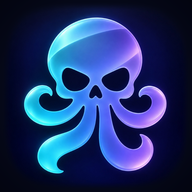
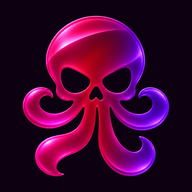
Redesign mafium.com with crimson-violet skull-octopus hero crest, matching palette, and Syne title font

diff --git a/home.css b/home.css
@@ -11,25 +11,25 @@
 }
 
 :root {
-  /* Nocturne Atelier (dark) & Sunlit Gallery (light) palette derived from photography */
-  --paper-light: #f6f2ea;
-  --paper-dark: #0e0d0c;
-  --sheet-light: #fffdf9;
-  --sheet-dark: #161412;
-  --well-light: #eee7db;
-  --well-dark: #100f0e;
-  --ink-light: #1c1814;
-  --ink-dark: #f2ebe1;
-  --muted-light: #695f55;
-  --muted-dark: #a69c90;
-  --rule-light: #e2d9cb;
-  --rule-dark: #2a2622;
-  --rule-strong-light: #c5b8a4;
-  --rule-strong-dark: #433c36;
-  --vermilion-light: #b85d1c;
-  --vermilion-dark: #e5974e;
-  --cobalt-light: #1e6c88;
-  --cobalt-dark: #68b8d6;
+  /* Obsidian Crimson-Violet (dark) & Rose-Quartz Gallery (light) derived from Mafium skull-octopus */
+  --paper-light: #faf4f9;
+  --paper-dark: #0d0011;
+  --sheet-light: #ffffff;
+  --sheet-dark: #16081e;
+  --well-light: #f2e7f4;
+  --well-dark: #100416;
+  --ink-light: #190822;
+  --ink-dark: #f9eff8;
+  --muted-light: #694f78;
+  --muted-dark: #b9a1c4;
+  --rule-light: #e6d4ec;
+  --rule-dark: #2c153b;
+  --rule-strong-light: #ccaed8;
+  --rule-strong-dark: #4b2466;
+  --vermilion-light: #c8005e;
+  --vermilion-dark: #ff2a85;
+  --cobalt-light: #6d1ee6;
+  --cobalt-dark: #9a52ff;
 
   --paper: var(--paper-light);
   --sheet: var(--sheet-light);
@@ -41,6 +41,7 @@
   --vermilion: var(--vermilion-light);
   --cobalt: var(--cobalt-light);
 
+  --brand-display: 'Syne', 'Lexend', -apple-system, BlinkMacSystemFont, sans-serif;
   --display: 'Lexend', -apple-system, BlinkMacSystemFont, 'Segoe UI', system-ui, sans-serif;
   --sans: 'Lexend', -apple-system, BlinkMacSystemFont, 'Segoe UI', system-ui, sans-serif;
 
@@ -50,6 +51,7 @@
   --radius-pill: 999px;
 
   color-scheme: light dark;
+  scrollbar-color: var(--rule-strong) var(--paper);
   view-transition-name: none;
 
   &:has(> head > meta[name="color-scheme"][content="dark"]) {
@@ -123,15 +125,15 @@ body {
   min-block-size: 100svh;
   background-color: var(--paper);
   background-image:
-    radial-gradient(65% 45% at 86% 6%, color-mix(in oklab, var(--cobalt) 9%, transparent), transparent 72%),
-    radial-gradient(55% 40% at 12% 28%, color-mix(in oklab, var(--vermilion) 6%, transparent), transparent 74%);
+    radial-gradient(64% 46% at 14% 6%, color-mix(in oklab, var(--vermilion) 15%, transparent), transparent 72%),
+    radial-gradient(60% 44% at 88% 12%, color-mix(in oklab, var(--cobalt) 16%, transparent), transparent 72%);
   background-attachment: fixed;
   color: var(--ink);
   font: 400 1rem/1.6 var(--sans);
   -webkit-font-smoothing: antialiased;
 }
 
-::selection { background: var(--vermilion); color: #120e0b; }
+::selection { background: var(--vermilion); color: #ffffff; }
 
 .visually-hidden:where(:not(:focus-within, :active)) {
   position: absolute !important;
@@ -224,17 +226,17 @@ a { color: inherit; }
 .wordmark {
   display: inline-flex;
   align-items: center;
-  gap: 9px;
+  gap: 10px;
   text-decoration: none;
-  font: 600 1.02rem/1 var(--display);
+  font: 800 1.04rem/1 var(--brand-display);
   letter-spacing: -.02em;
   white-space: nowrap;
 }
 .wordmark-mark {
-  inline-size: 26px;
-  block-size: 26px;
+  inline-size: 32px;
+  block-size: 32px;
   flex-shrink: 0;
-  border-radius: 7px;
+  border-radius: 8px;
   background-image: url("./images/brand/mafium-icon.png");
   background-image: image-set(
     url("./images/brand/mafium-icon.avif") type("image/avif") 1x,
@@ -247,6 +249,7 @@ a { color: inherit; }
   background-size: contain;
   background-repeat: no-repeat;
   background-position: center;
+  box-shadow: 0 2px 12px color-mix(in oklab, var(--vermilion) 28%, transparent);
 }
 
 .masthead-nav {
@@ -330,7 +333,7 @@ section[tabindex="-1"]:focus { outline: none; }
 /* Atmospheric Editorial Hero */
 .hero {
   display: grid;
-  grid-template-columns: minmax(0, 1.28fr) minmax(240px, .72fr);
+  grid-template-columns: minmax(0, 1.24fr) minmax(240px, .76fr);
   align-items: center;
   gap: clamp(28px, 5vw, 64px);
   padding-bottom: clamp(32px, 5vw, 56px);
@@ -338,6 +341,56 @@ section[tabindex="-1"]:focus { outline: none; }
 .hero-copy {
   display: grid;
   gap: 16px;
+  justify-items: start;
+}
+.hero-brand {
+  display: flex;
+  align-items: center;
+  gap: 18px;
+  margin-bottom: 4px;
+}
+.hero-emblem-wrap {
+  position: relative;
+  inline-size: clamp(108px, 12vw, 152px);
+  block-size: clamp(108px, 12vw, 152px);
+  border-radius: clamp(24px, 2.8vw, 34px);
+  padding: 2px;
+  background: linear-gradient(135deg, var(--vermilion), var(--cobalt));
+  box-shadow:
+    0 22px 54px -16px color-mix(in oklab, var(--vermilion) 52%, transparent),
+    0 14px 44px -14px color-mix(in oklab, var(--cobalt) 48%, transparent);
+  flex-shrink: 0;
+}
+.hero-emblem-wrap::before {
+  content: "";
+  position: absolute;
+  inset: -14px;
+  border-radius: inherit;
+  background: radial-gradient(circle at 32% 35%, color-mix(in oklab, var(--vermilion) 32%, transparent), transparent 60%),
+              radial-gradient(circle at 72% 68%, color-mix(in oklab, var(--cobalt) 34%, transparent), transparent 62%);
+  filter: blur(22px);
+  z-index: -1;
+  pointer-events: none;
+}
+.hero-emblem {
+  display: block;
+  width: 100%;
+  height: 100%;
+  border-radius: calc(clamp(24px, 2.8vw, 34px) - 2px);
+  object-fit: cover;
+  background: #0d0011;
+}
+.hero-badge {
+  display: inline-flex;
+  align-items: center;
+  padding: 7px 14px;
+  border-radius: var(--radius-pill);
+  border: 1px solid color-mix(in oklab, var(--vermilion) 38%, var(--rule-strong));
+  background: color-mix(in oklab, var(--vermilion) 10%, var(--sheet));
+  color: var(--vermilion);
+  font: 600 .78rem/1 var(--sans);
+  letter-spacing: .12em;
+  text-transform: uppercase;
 }
 .hero-places {
   margin: 0;
@@ -347,8 +400,10 @@ section[tabindex="-1"]:focus { outline: none; }
 }
 .hero-title {
   margin: 0;
-  font: 600 clamp(2.8rem, 1.9rem + 4.2vw, 4.75rem)/1.02 var(--display);
+  font: 800 clamp(2.65rem, 1.75rem + 4vw, 4.65rem)/.96 var(--brand-display);
   letter-spacing: -.035em;
+  color: var(--ink);
+  text-wrap: balance;
 }
 .hero-roles {
   margin: 0;
@@ -398,10 +453,10 @@ section[tabindex="-1"]:focus { outline: none; }
   overflow: hidden;
   aspect-ratio: 4 / 5;
   background: var(--well);
-  border: 1px solid color-mix(in oklab, var(--rule-strong) 55%, transparent);
+  border: 1px solid color-mix(in oklab, var(--cobalt) 32%, var(--rule-strong));
   box-shadow:
-    0 24px 56px -22px rgb(0 0 0 / 0.65),
-    0 0 0 1px color-mix(in oklab, var(--cobalt) 12%, transparent);
+    0 26px 60px -22px rgb(0 0 0 / 0.72),
+    0 0 0 1px color-mix(in oklab, var(--vermilion) 18%, transparent);
 }
 .hero-portrait img {
   display: block;
@@ -615,8 +670,8 @@ section[tabindex="-1"]:focus { outline: none; }
   transition: background-color 160ms ease-out, color 160ms ease-out, transform 160ms ease-out;
 }
 .cta-pill:hover {
-  background: var(--vermilion);
-  color: #140f0a;
+  background: linear-gradient(110deg, var(--vermilion), var(--cobalt));
+  color: #ffffff;
 }
 .cta-pill .arrow { transition: transform 160ms ease-out; }
 .cta-pill:hover .arrow { transform: translateX(3px); }
@@ -696,7 +751,7 @@ section[tabindex="-1"]:focus { outline: none; }
 .soft-chip-accent[aria-pressed="true"] {
   border-color: var(--vermilion);
   background: var(--vermilion);
-  color: #140f0a;
+  color: #ffffff;
 }
 .specimen-hint {
   font: 500 .76rem/1 var(--sans);

diff --git a/index.html b/index.html
@@ -13,8 +13,8 @@
     } catch {}
   </script>
   <meta name="description" content="Saad MAFiA — Music, Science, Games, and Photography.">
-  <meta name="theme-color" content="#0e0d0c" media="(prefers-color-scheme: dark)">
-  <meta name="theme-color" content="#f6f2ea" media="(prefers-color-scheme: light)">
+  <meta name="theme-color" content="#0d0011" media="(prefers-color-scheme: dark)">
+  <meta name="theme-color" content="#faf4f9" media="(prefers-color-scheme: light)">
   <meta property="og:type" content="website">
   <meta property="og:site_name" content="mafium">
   <meta property="og:title" content="Saad MAFiA — mafium">
@@ -24,7 +24,7 @@
   <meta property="og:image:type" content="image/png">
   <meta property="og:image:width" content="1200">
   <meta property="og:image:height" content="630">
-  <meta property="og:image:alt" content="Mafium glowing cyan-to-violet skull-octopus emblem beside the mafium wordmark">
+  <meta property="og:image:alt" content="Mafium glowing crimson-magenta to electric-violet skull-octopus emblem beside Saad MAFiA">
   <meta name="twitter:card" content="summary_large_image">
   <title>Saad MAFiA — mafium</title>
   <link rel="icon" href="./favicon.ico" sizes="48x48">
@@ -33,8 +33,8 @@
   <link rel="manifest" href="./site.webmanifest">
   <link rel="preconnect" href="https://fonts.googleapis.com">
   <link rel="preconnect" href="https://fonts.gstatic.com" crossorigin>
-  <link rel="stylesheet" href="https://fonts.googleapis.com/css2?family=Lexend:wght@300..700&display=swap">
-  <link rel="stylesheet" href="./home.css?v=16">
+  <link rel="stylesheet" href="https://fonts.googleapis.com/css2?family=Lexend:wght@300..700&family=Syne:wght@700;800&display=swap">
+  <link rel="stylesheet" href="./home.css?v=17">
   <script type="module" src="./home.js?v=15"></script>
 </head>
 <body>
@@ -79,6 +79,25 @@
   <main id="top" class="frame">
     <section class="hero" aria-label="Profile">
       <div class="hero-copy">
+        <div class="hero-brand">
+          <div class="hero-emblem-wrap">
+            <picture>
+              <source srcset="./images/brand/mafium-hero.avif 1x, ./images/brand/mafium-hero-2x.avif 2x" type="image/avif">
+              <source srcset="./images/brand/mafium-hero.webp 1x, ./images/brand/mafium-hero-2x.webp 2x" type="image/webp">
+              <img
+                class="hero-emblem"
+                src="./images/brand/mafium-hero.png"
+                srcset="./images/brand/mafium-hero.png 1x, ./images/brand/mafium-hero-2x.png 2x"
+                alt="Mafium skull-octopus emblem"
+                width="240"
+                height="240"
+                fetchpriority="high"
+              >
+            </picture>
+          </div>
+          <span class="hero-badge">Mafium Studios</span>
+        </div>
+
         <h1 class="hero-title">Saad MAFiA</h1>
         <p class="hero-roles">Digital Bedouin · Musician · Data Scientist · Photographer</p>
         <p class="hero-quote">“Passenger in your universe. Let’s make this encounter count.”</p>
@@ -93,7 +112,7 @@
       </div>
 
       <figure class="hero-portrait">
-        <img src="./images/showcase/hero-portrait.jpg" alt="Saad MAFiA playing electric guitar in backlit studio portrait" width="682" height="1024">
+        <img src="./images/showcase/hero-portrait.jpg" alt="Saad MAFiA playing electric guitar in backlit studio portrait" width="682" height="1024" fetchpriority="high">
       </figure>
     </section>
 

diff --git a/oddmeter/index.html b/oddmeter/index.html
@@ -27,7 +27,7 @@
       document.documentElement.classList.add('oddmeter-embed');
     }
   </script>
-  <link rel="stylesheet" href="./styles.css?v=drummer6-brand1">
+  <link rel="stylesheet" href="./styles.css?v=drummer6-brand2">
   <script type="module" src="./app.js?v=drummer6"></script>
 </head>
 <body>

diff --git a/oddmeter/styles.css b/oddmeter/styles.css
@@ -189,7 +189,7 @@ select option { background: #191c24; color: var(--text); }
   background-size: contain;
   background-repeat: no-repeat;
   background-position: center;
-  box-shadow: 0 2px 12px rgb(92 178 255 / 0.28);
+  box-shadow: 0 2px 12px rgb(255 30 128 / 0.34);
 }
 
 .header-button {
